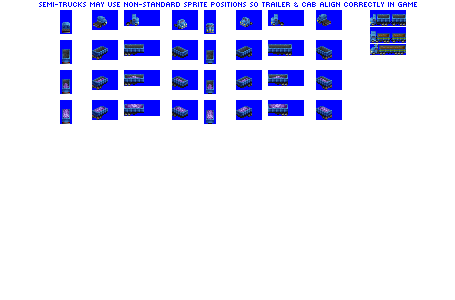
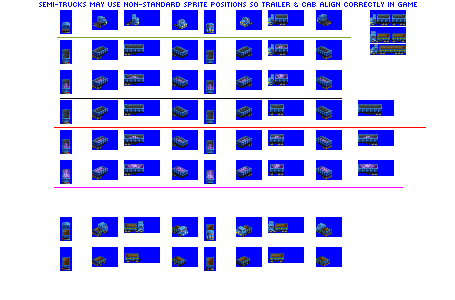
Change: improved Honister – view

diff --git a/src/vehicles/honister.py b/src/vehicles/honister.py
@@ -3,8 +3,8 @@ import graphics_processor.utils as graphics_utils
 from road_vehicle import RVConsist, DumpHauler
 
 graphics_processors = graphics_utils.get_bulk_cargo_processors(template='honister_template.png',
-                                              copy_block_top_offsets = [40],
-                                              paste_top_offset = 40)
+                                              copy_block_top_offsets = [10, 100],
+                                              paste_top_offset = 10)
 
 consist = RVConsist(id = 'honister',
               base_numeric_id = 230,
@@ -18,14 +18,13 @@ consist.add_unit(DumpHauler(consist = consist,
                         capacity = 0,
                         vehicle_length = 5,
                         effects = ['EFFECT_SPRITE_DIESEL, -2, 1, 10'],
-                        always_use_same_spriterow = True,
                         spriterow_num = 0))
 
 consist.add_unit(DumpHauler(consist = consist,
                         weight = 6,
                         capacity = 30,
                         vehicle_length = 4,
-                        spriterow_adjust = {'multiplier': 0, 'offset': 1}))
+                        spriterow_adjust = {'multiplier': 2, 'offset': 1}))
 
 consist.add_model_variant(intro_date=0,
                        end_date=global_constants.max_game_date,

diff --git a/src/graphics_processor/pipelines.py b/src/graphics_processor/pipelines.py
@@ -118,8 +118,10 @@ class ExtendSpriterowsForRecolouredCargosPipeline(Pipeline):
         # assumes first row from copy_block_top_offset is always the empty state, copied once, remaining rows copied per cargo
         for counter, copy_block_top_offset in enumerate(options['copy_block_top_offsets']):
             # empty state spriterow
-            # !! this will need extending for open trucks, to handle other non-recoloured cargo types
+            # spriterow_adjust prop on vehicle units will handle offsets to the correct spriterow
+            # !! this will need extending further for open trucks, to handle other non-recoloured cargo types
             # !! probably do that by extending crop_box_source height for empty state to multiple rows ??
+            # !! eh, just automate the open truck cargo sprites? o_O
             base_offset = copy_block_top_offset
             crop_box_source = (0,
                                base_offset,
